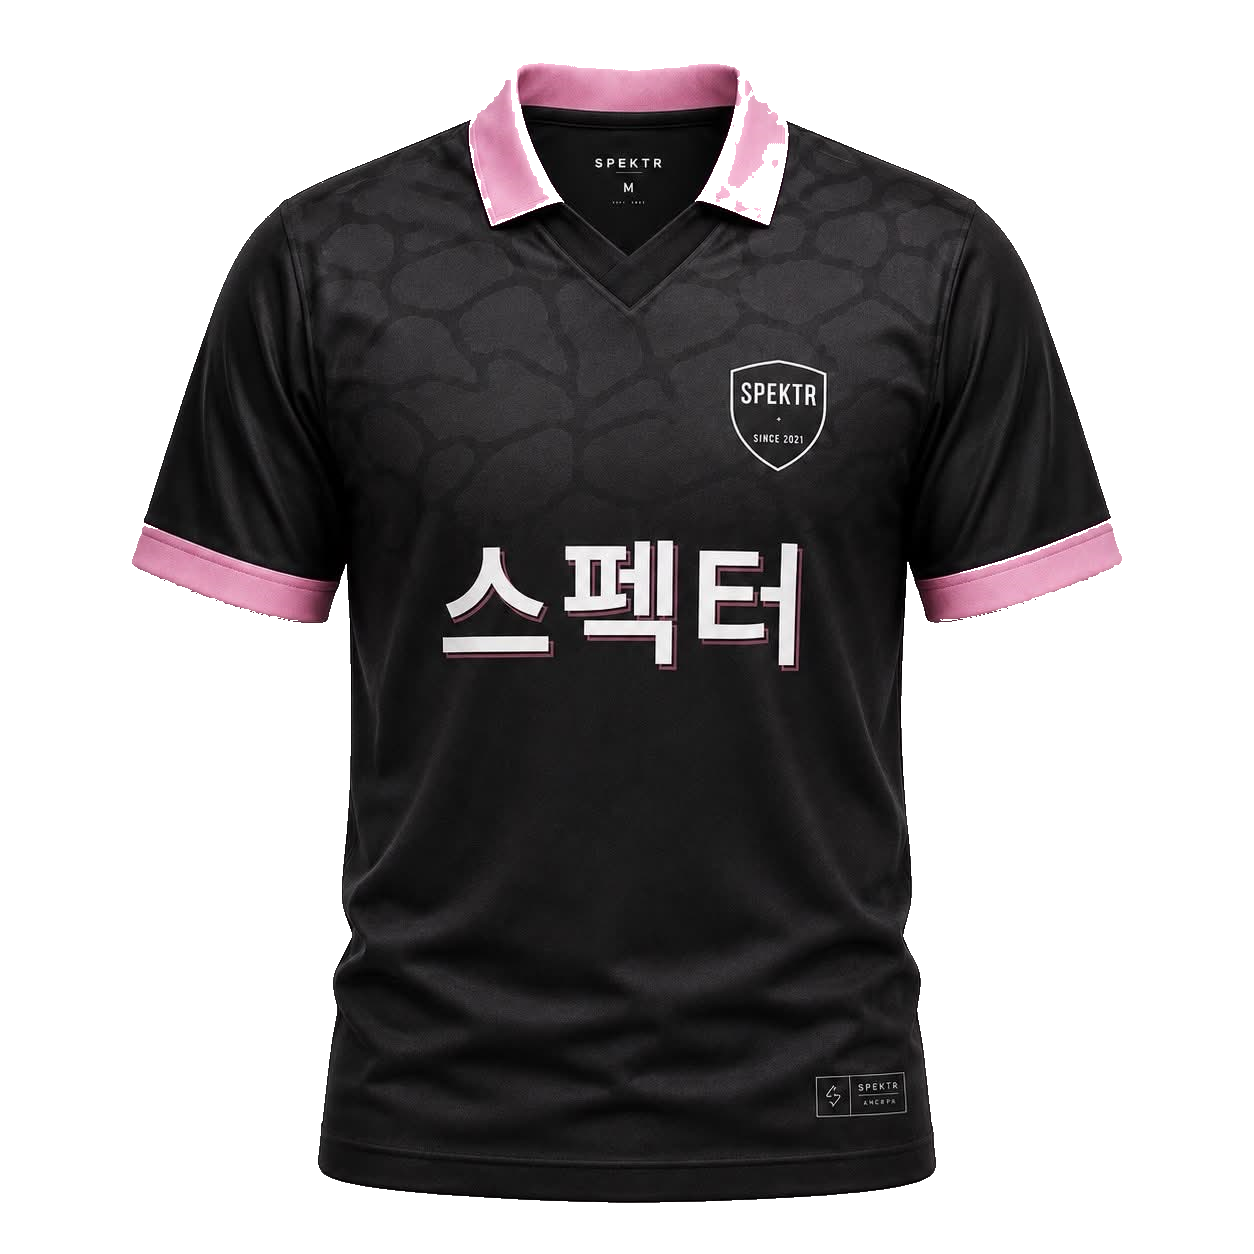
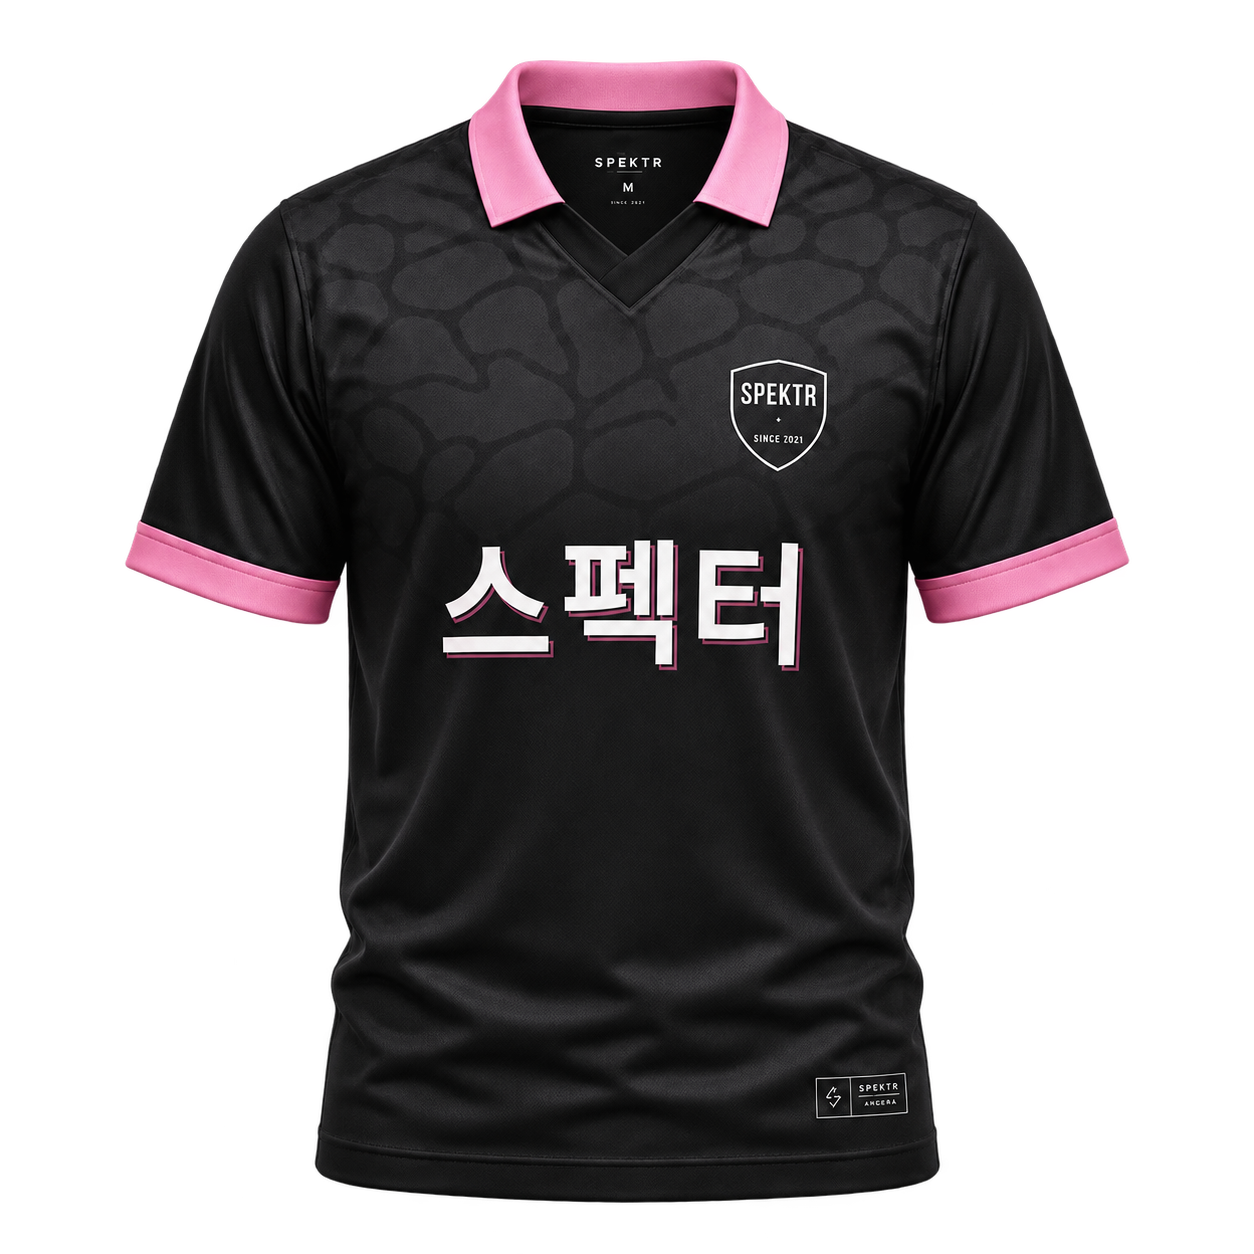
Repair jersey collar artwork

diff --git a/shop.html b/shop.html
@@ -28,7 +28,7 @@
           <img class="campaign-player campaign-player-man" src="assets/jersey-campaign-player-man.png" alt="Joueur portant le maillot Spektr 2027">
           <img class="campaign-player campaign-player-woman" src="assets/jersey-campaign-player-woman.png" alt="Joueuse portant le maillot Spektr 2027">
           <img class="campaign-shirt campaign-shirt-back" src="assets/product-mw4-reveal-back.png" alt="Dos du maillot Spektr 2027">
-          <img class="campaign-shirt campaign-shirt-front" src="assets/product-mw4-reveal-front.png" alt="Face du maillot Spektr 2027">
+          <img class="campaign-shirt campaign-shirt-front" src="assets/product-mw4-reveal-front.png?v=collar2" alt="Face du maillot Spektr 2027">
         </div>
         <div class="jersey-campaign-copy">
           <p class="eyebrow">Spektr 2027</p>
@@ -48,7 +48,7 @@
           <article class="orchid-product-card main-product">
             <a href="https://www.kapoli.fr/boutiquedesclubs/SPEKTR-c189557520" target="_blank" rel="noreferrer">
               <div class="product-duo" aria-label="Maillot 2027 MW4 face et dos">
-                <img src="assets/product-mw4-reveal-front.png" alt="Maillot 2027 MW4 face">
+                <img src="assets/product-mw4-reveal-front.png?v=collar2" alt="Maillot 2027 MW4 face">
                 <img src="assets/product-mw4-reveal-back.png" alt="Maillot 2027 MW4 dos">
               </div>
               <h3>MAILLOT 2027 MW4</h3>
